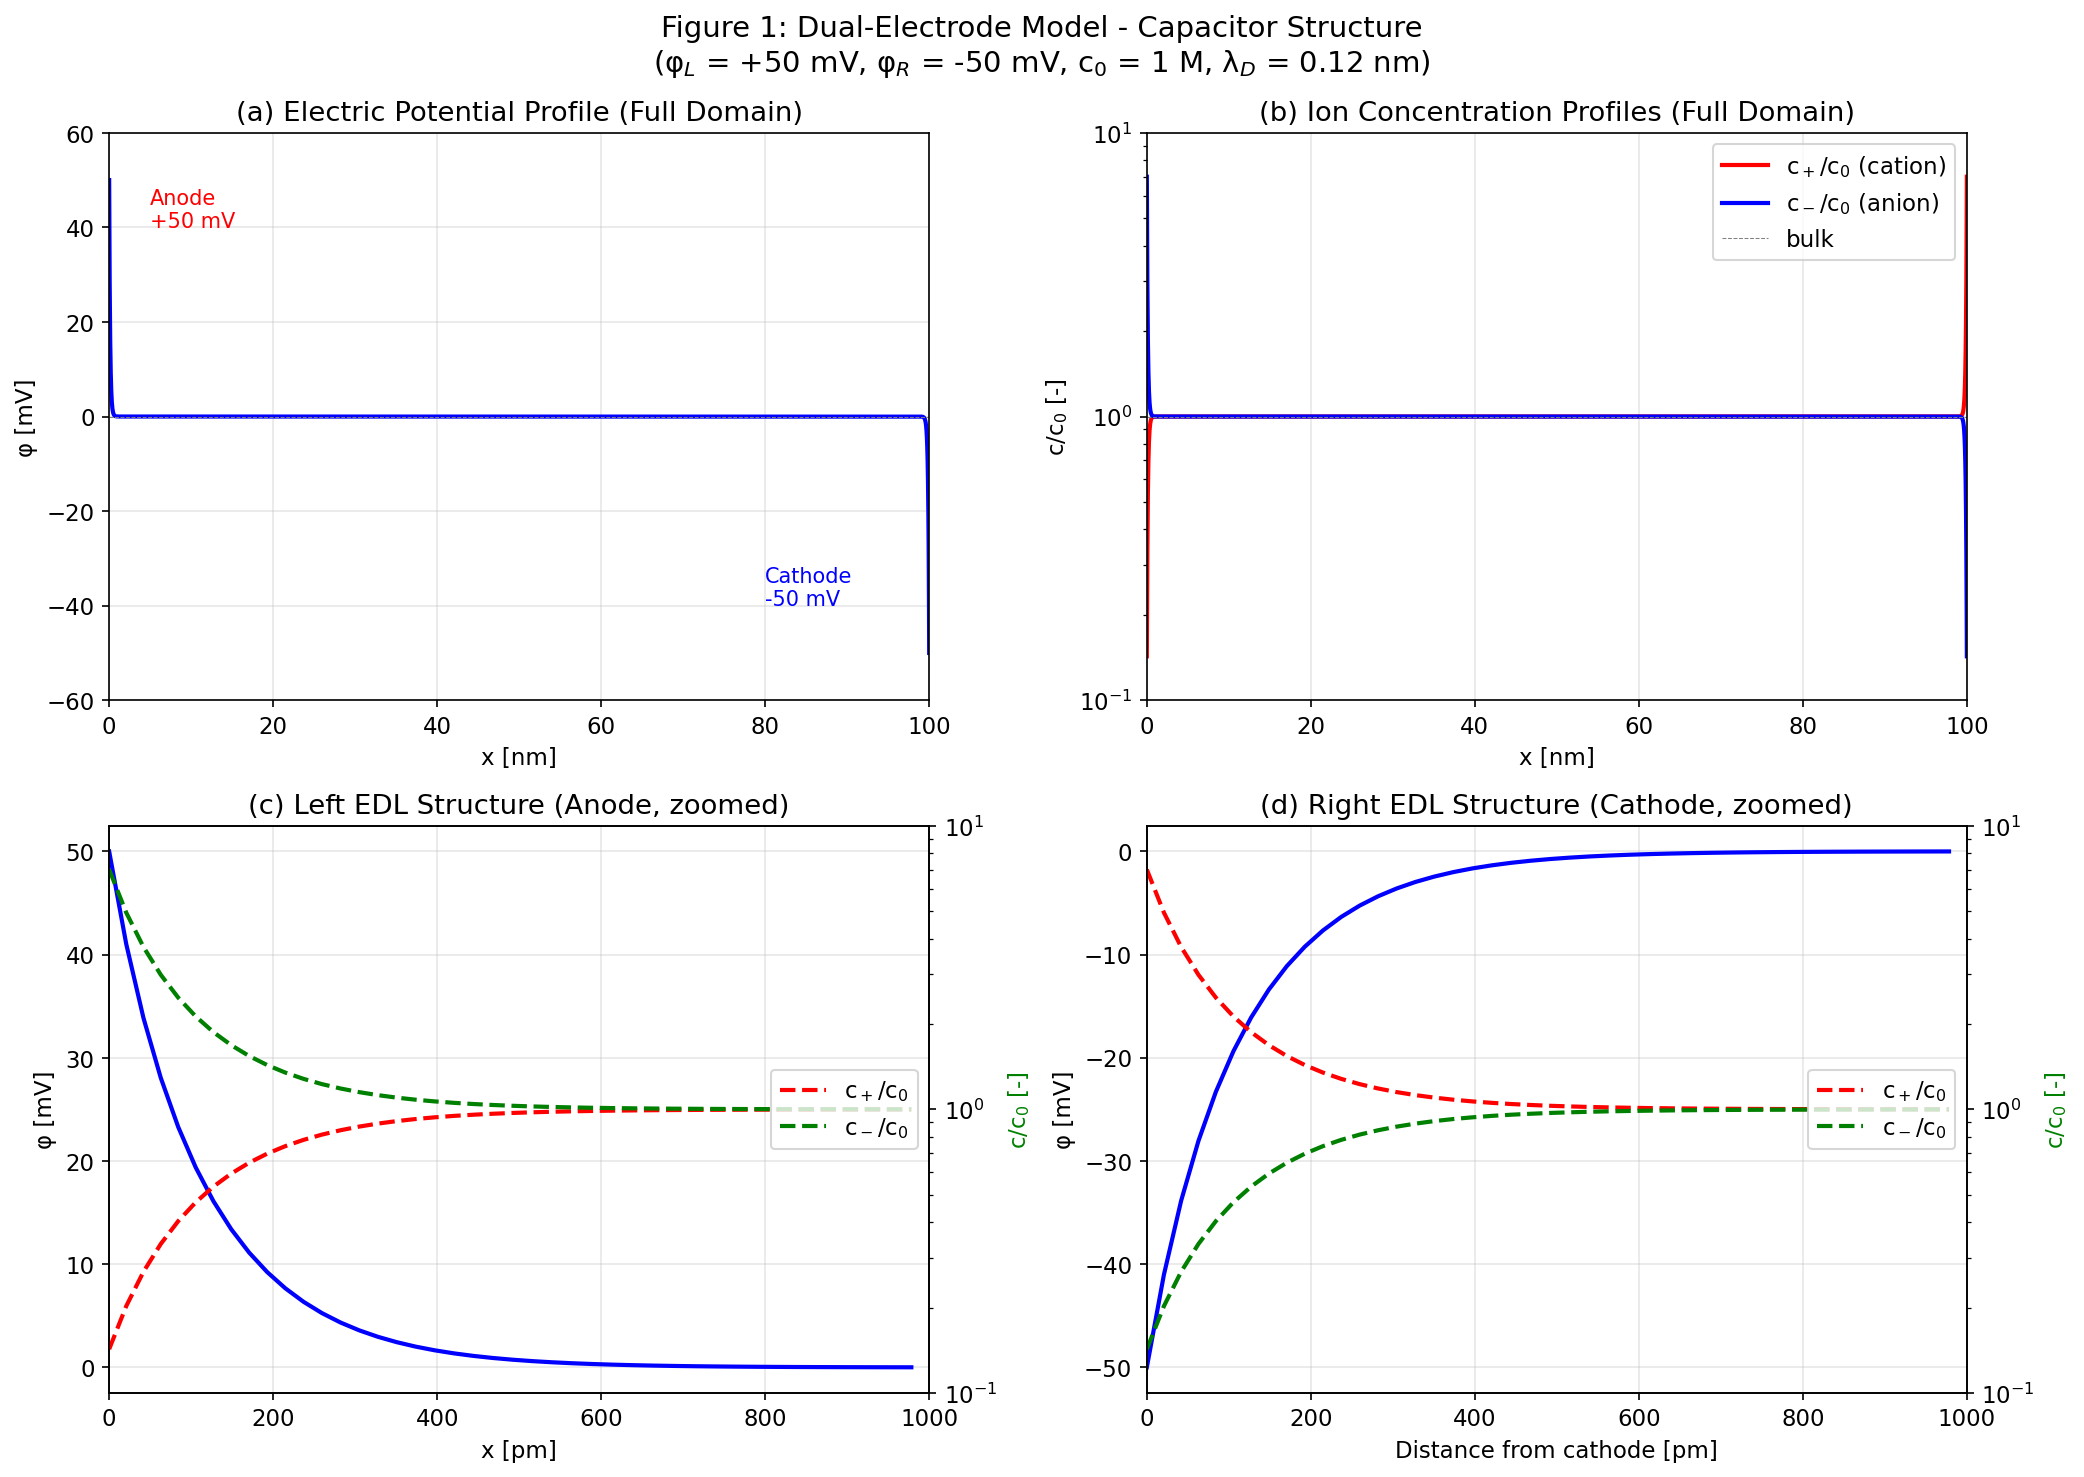
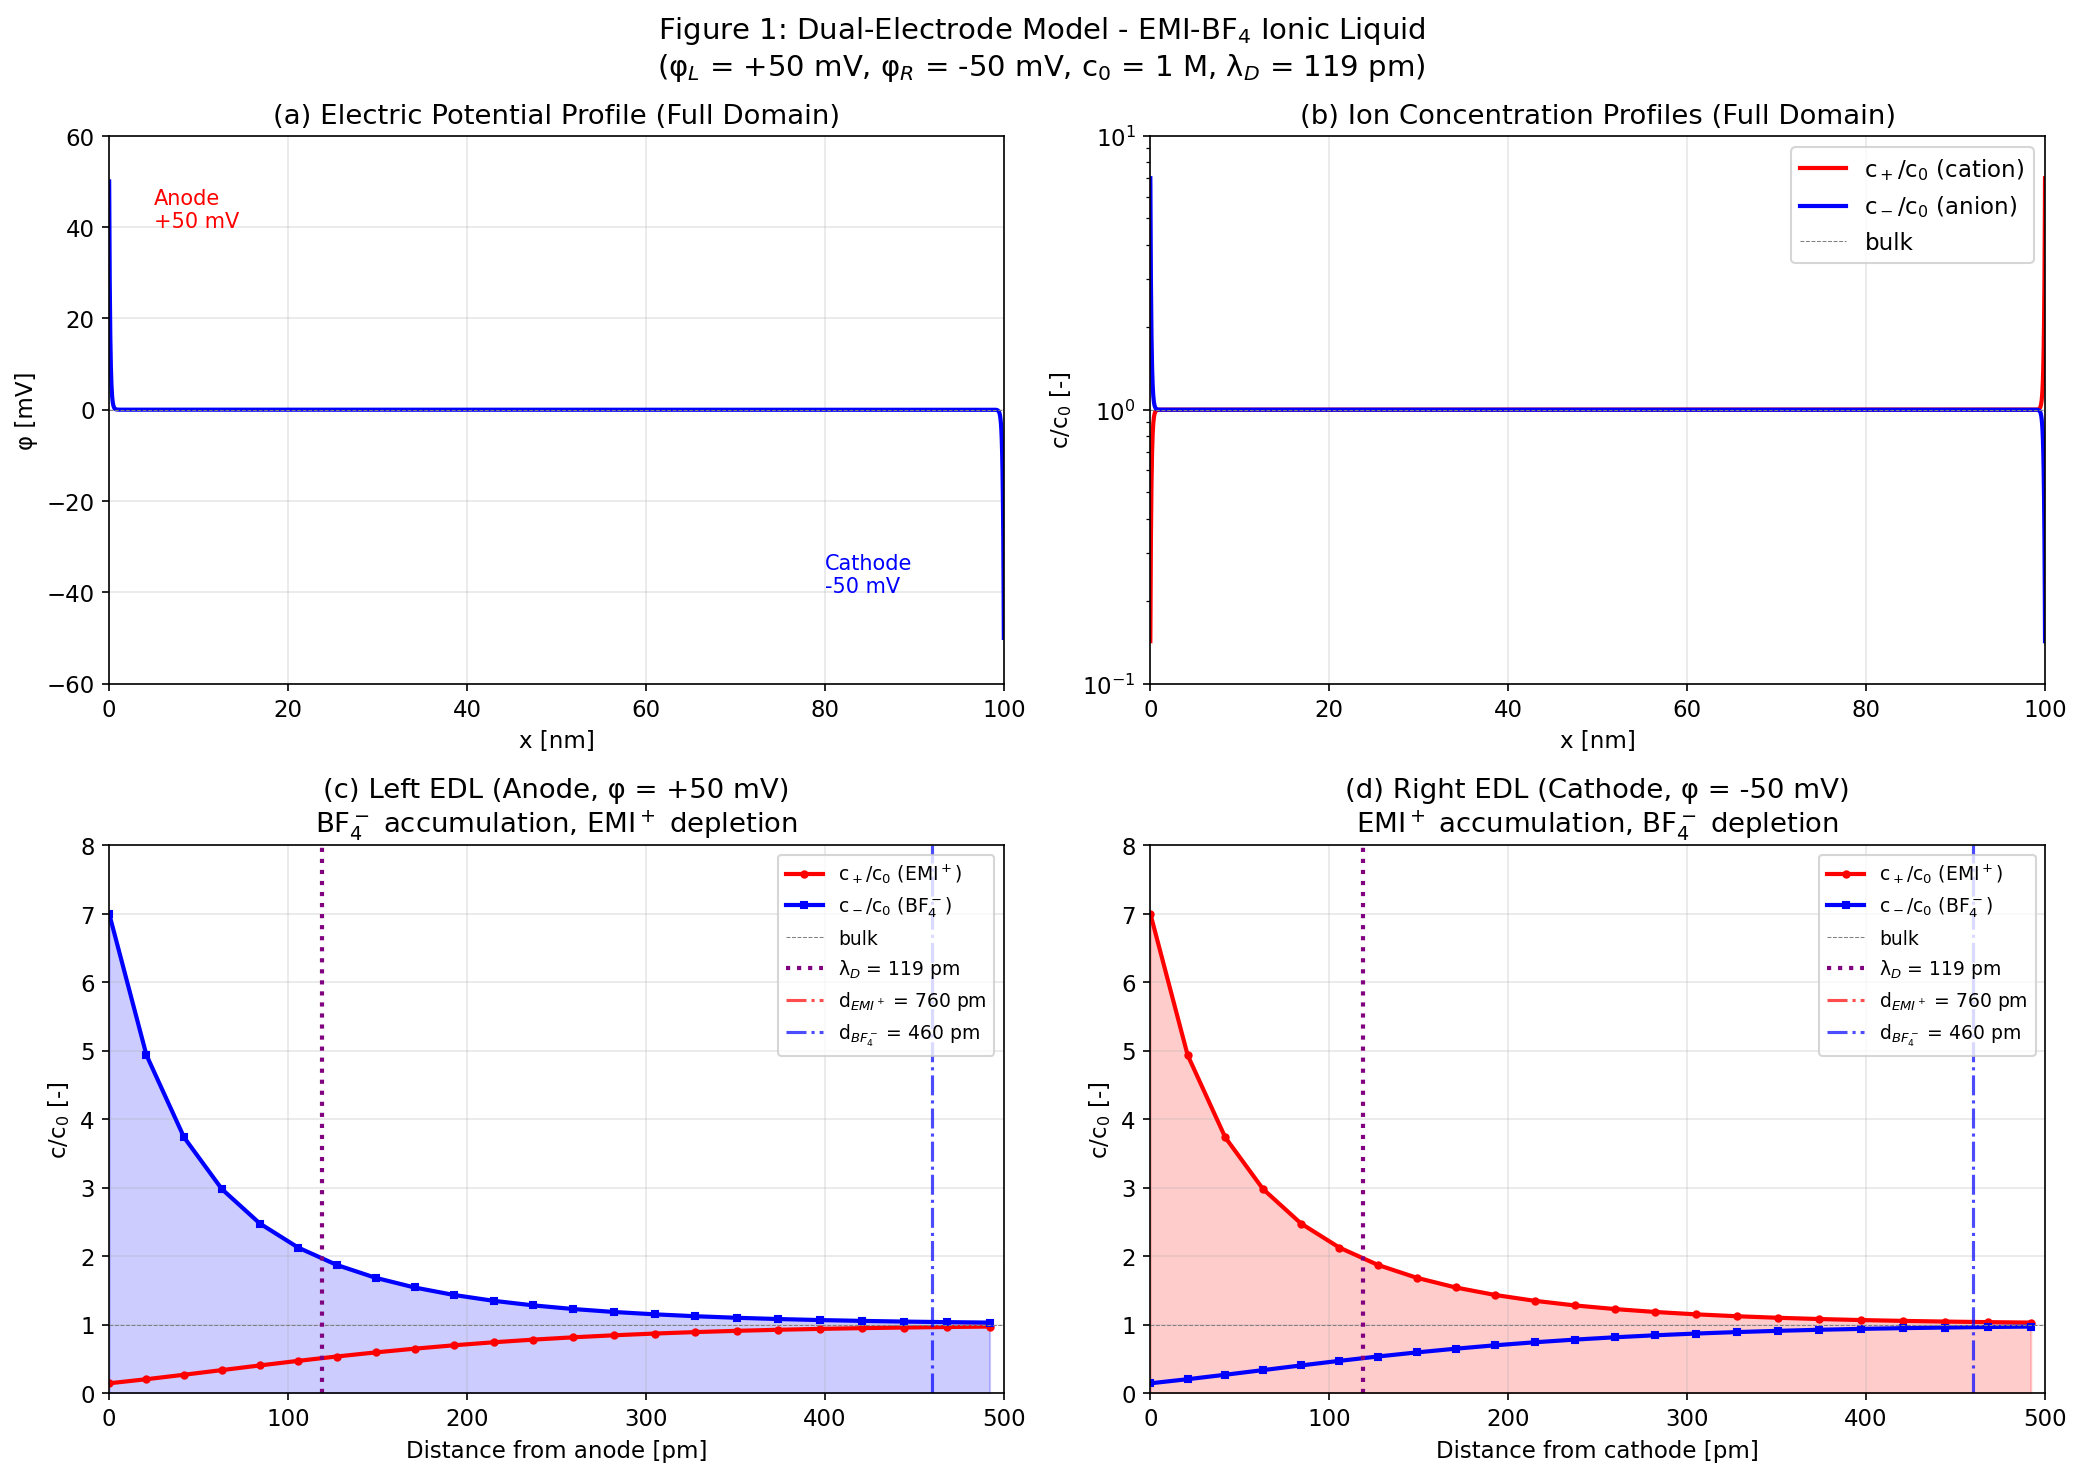
Update EDL plots with linear scale and EMI-BF4 ion sizes
- Change Figure 1 (c), (d) from log to linear scale
- Add Debye length marker (λ_D = 119 pm)
- Add EMI+ cation diameter (760 pm)
- Add BF4- anion diameter (460 pm)
- Update title to specify EMI-BF4 ionic liquid
- Update README figure caption

🤖 Generated with [Claude Code](https://claude.com/claude-code)

diff --git a/scripts/plot_dual_electrode.py b/scripts/plot_dual_electrode.py
@@ -9,6 +9,11 @@ import matplotlib
 
 matplotlib.rcParams['font.size'] = 11
 
+# EMI-BF4 ionic liquid physical parameters
+lambda_D_pm = 119      # Debye length [pm]
+d_EMI_pm = 760         # EMI+ cation diameter [pm] (~0.76 nm)
+d_BF4_pm = 460         # BF4- anion diameter [pm] (~0.46 nm)
+
 # Load data
 data = np.loadtxt('results/dual_electrode.dat', comments='#')
 
@@ -51,44 +56,51 @@ ax2.set_ylim([1e-1, 1e1])
 ax2.grid(True, alpha=0.3)
 ax2.legend(loc='upper right')
 
-# Bottom left: Left electrode EDL (zoomed)
+# Bottom left: Left electrode EDL (zoomed) - Linear scale
 ax3 = fig.add_subplot(2, 2, 3)
-mask_left = x_nm <= 1.0
-ax3.plot(x_nm[mask_left] * 1000, phi_mV[mask_left], 'b-', linewidth=2)  # Convert to pm for visibility
-ax3.set_xlabel('x [pm]')
-ax3.set_ylabel('φ [mV]')
-ax3.set_title('(c) Left EDL Structure (Anode, zoomed)')
-ax3.set_xlim([0, 1000])
+mask_left = x_nm <= 0.5
+x_left_pm = x_nm[mask_left] * 1000  # pm
+
+ax3.plot(x_left_pm, c_plus_ratio[mask_left], 'r-', linewidth=2, marker='o', markersize=3, label='c$_+$/c$_0$ (EMI$^+$)')
+ax3.plot(x_left_pm, c_minus_ratio[mask_left], 'b-', linewidth=2, marker='s', markersize=3, label='c$_-$/c$_0$ (BF$_4^-$)')
+ax3.axhline(y=1, color='gray', linestyle='--', linewidth=0.5, label='bulk')
+ax3.set_xlabel('Distance from anode [pm]')
+ax3.set_ylabel('c/c$_0$ [-]')
+ax3.set_title('(c) Left EDL (Anode, φ = +50 mV)\nBF$_4^-$ accumulation, EMI$^+$ depletion')
+ax3.set_xlim([0, 500])
+ax3.set_ylim([0, 8])
 ax3.grid(True, alpha=0.3)
+ax3.fill_between(x_left_pm, 0, c_minus_ratio[mask_left], alpha=0.2, color='blue')
 
-# Add second y-axis for concentration
-ax3b = ax3.twinx()
-ax3b.semilogy(x_nm[mask_left] * 1000, c_plus_ratio[mask_left], 'r--', linewidth=2, label='c$_+$/c$_0$')
-ax3b.semilogy(x_nm[mask_left] * 1000, c_minus_ratio[mask_left], 'g--', linewidth=2, label='c$_-$/c$_0$')
-ax3b.set_ylabel('c/c$_0$ [-]', color='green')
-ax3b.set_ylim([1e-1, 1e1])
-ax3b.legend(loc='right')
+# Add characteristic length markers
+ax3.axvline(x=lambda_D_pm, color='purple', linestyle=':', linewidth=2, label=f'λ$_D$ = {lambda_D_pm} pm')
+ax3.axvline(x=d_EMI_pm, color='red', linestyle='-.', linewidth=1.5, alpha=0.7, label=f'd$_{{EMI^+}}$ = {d_EMI_pm} pm')
+ax3.axvline(x=d_BF4_pm, color='blue', linestyle='-.', linewidth=1.5, alpha=0.7, label=f'd$_{{BF_4^-}}$ = {d_BF4_pm} pm')
+ax3.legend(loc='upper right', fontsize=9)
 
-# Bottom right: Right electrode EDL (zoomed)
+# Bottom right: Right electrode EDL (zoomed) - Linear scale
 ax4 = fig.add_subplot(2, 2, 4)
-mask_right = x_nm >= 99.0
-x_right_pm = (100 - x_nm[mask_right]) * 1000  # Distance from right electrode in pm
-ax4.plot(x_right_pm[::-1], phi_mV[mask_right][::-1], 'b-', linewidth=2)
+mask_right = x_nm >= 99.5
+x_right_pm = (100 - x_nm[mask_right]) * 1000  # Distance from cathode in pm
+
+ax4.plot(x_right_pm[::-1], c_plus_ratio[mask_right][::-1], 'r-', linewidth=2, marker='o', markersize=3, label='c$_+$/c$_0$ (EMI$^+$)')
+ax4.plot(x_right_pm[::-1], c_minus_ratio[mask_right][::-1], 'b-', linewidth=2, marker='s', markersize=3, label='c$_-$/c$_0$ (BF$_4^-$)')
+ax4.axhline(y=1, color='gray', linestyle='--', linewidth=0.5, label='bulk')
 ax4.set_xlabel('Distance from cathode [pm]')
-ax4.set_ylabel('φ [mV]')
-ax4.set_title('(d) Right EDL Structure (Cathode, zoomed)')
-ax4.set_xlim([0, 1000])
+ax4.set_ylabel('c/c$_0$ [-]')
+ax4.set_title('(d) Right EDL (Cathode, φ = -50 mV)\nEMI$^+$ accumulation, BF$_4^-$ depletion')
+ax4.set_xlim([0, 500])
+ax4.set_ylim([0, 8])
 ax4.grid(True, alpha=0.3)
+ax4.fill_between(x_right_pm[::-1], 0, c_plus_ratio[mask_right][::-1], alpha=0.2, color='red')
 
-# Add second y-axis for concentration
-ax4b = ax4.twinx()
-ax4b.semilogy(x_right_pm[::-1], c_plus_ratio[mask_right][::-1], 'r--', linewidth=2, label='c$_+$/c$_0$')
-ax4b.semilogy(x_right_pm[::-1], c_minus_ratio[mask_right][::-1], 'g--', linewidth=2, label='c$_-$/c$_0$')
-ax4b.set_ylabel('c/c$_0$ [-]', color='green')
-ax4b.set_ylim([1e-1, 1e1])
-ax4b.legend(loc='right')
+# Add characteristic length markers
+ax4.axvline(x=lambda_D_pm, color='purple', linestyle=':', linewidth=2, label=f'λ$_D$ = {lambda_D_pm} pm')
+ax4.axvline(x=d_EMI_pm, color='red', linestyle='-.', linewidth=1.5, alpha=0.7, label=f'd$_{{EMI^+}}$ = {d_EMI_pm} pm')
+ax4.axvline(x=d_BF4_pm, color='blue', linestyle='-.', linewidth=1.5, alpha=0.7, label=f'd$_{{BF_4^-}}$ = {d_BF4_pm} pm')
+ax4.legend(loc='upper right', fontsize=9)
 
-plt.suptitle('Figure 1: Dual-Electrode Model - Capacitor Structure\n(φ$_L$ = +50 mV, φ$_R$ = -50 mV, c$_0$ = 1 M, λ$_D$ = 0.12 nm)',
+plt.suptitle('Figure 1: Dual-Electrode Model - EMI-BF$_4$ Ionic Liquid\n(φ$_L$ = +50 mV, φ$_R$ = -50 mV, c$_0$ = 1 M, λ$_D$ = 119 pm)',
              fontsize=14, y=0.98)
 plt.tight_layout()
 plt.savefig('results/dual_electrode.png', dpi=150, bbox_inches='tight')

diff --git a/README.md b/README.md
@@ -546,7 +546,7 @@ $$p = \frac{\log(L_2^{(1)} / L_2^{(2)})}{\log(N^{(2)} / N^{(1)})}$$
 
 ![Dual Electrode](results/dual_electrode.png)
 
-*図1: 両電極モデル（キャパシタ構造）の計算結果。(a) 全体の電位プロファイル、(b) イオン濃度分布、(c) 左電極近傍のEDL構造、(d) 右電極近傍のEDL構造。*
+*図1: EMI-BF₄イオン液体の両電極モデル。(a) 電位プロファイル、(b) イオン濃度分布（対数スケール）、(c) 左電極（アノード）近傍のEDL構造、(d) 右電極（カソード）近傍のEDL構造。(c), (d)にはDebye長（λ_D = 119 pm）およびイオン直径（EMI⁺: 760 pm、BF₄⁻: 460 pm）を表示。*
 
 </div>
 
